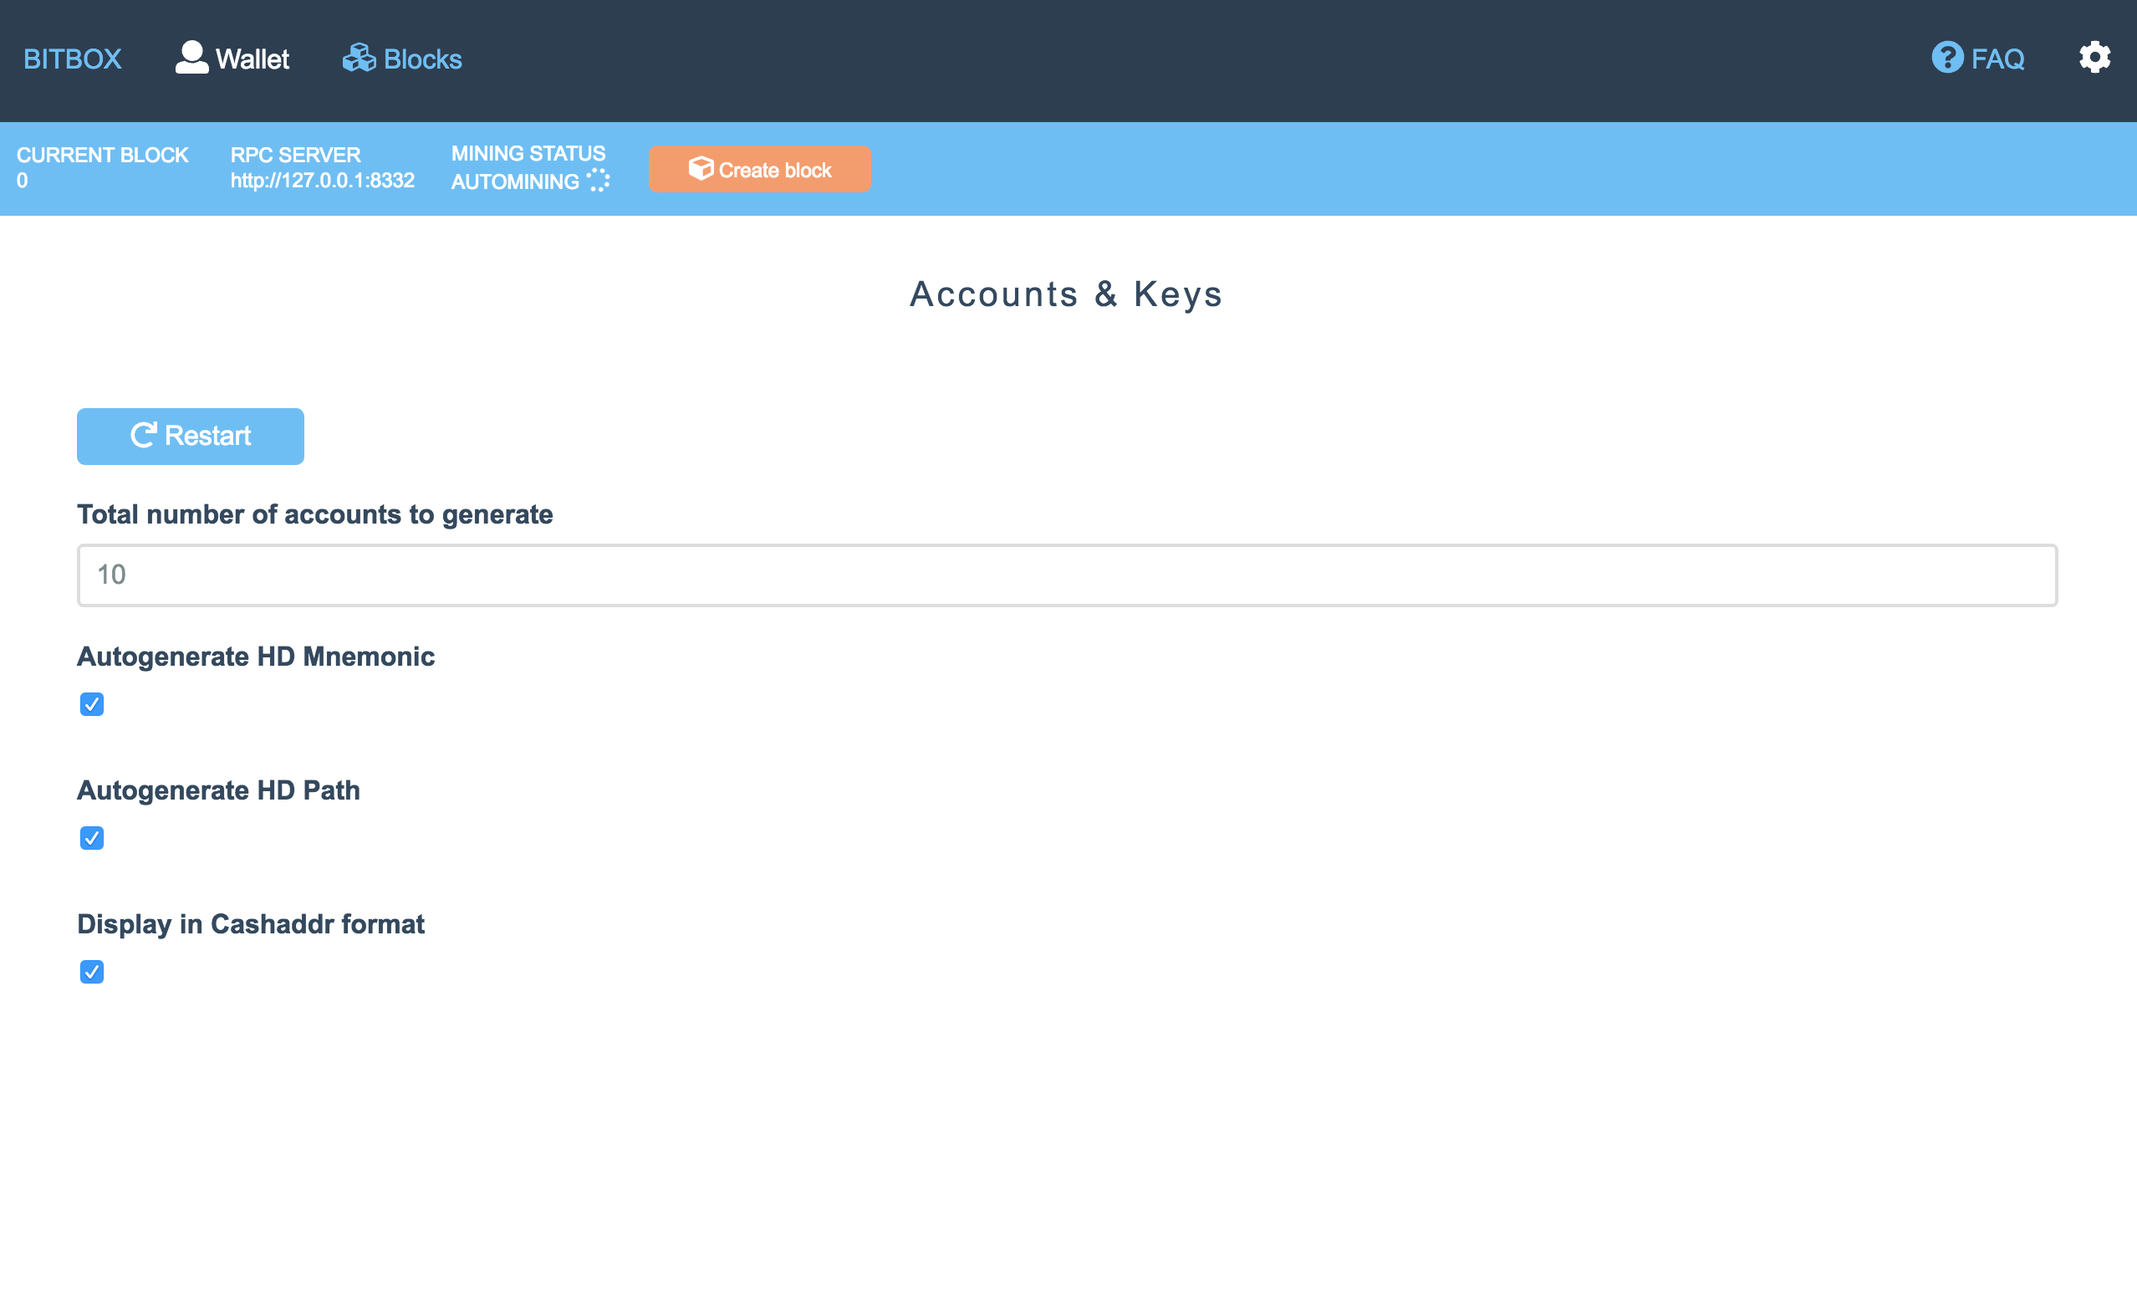
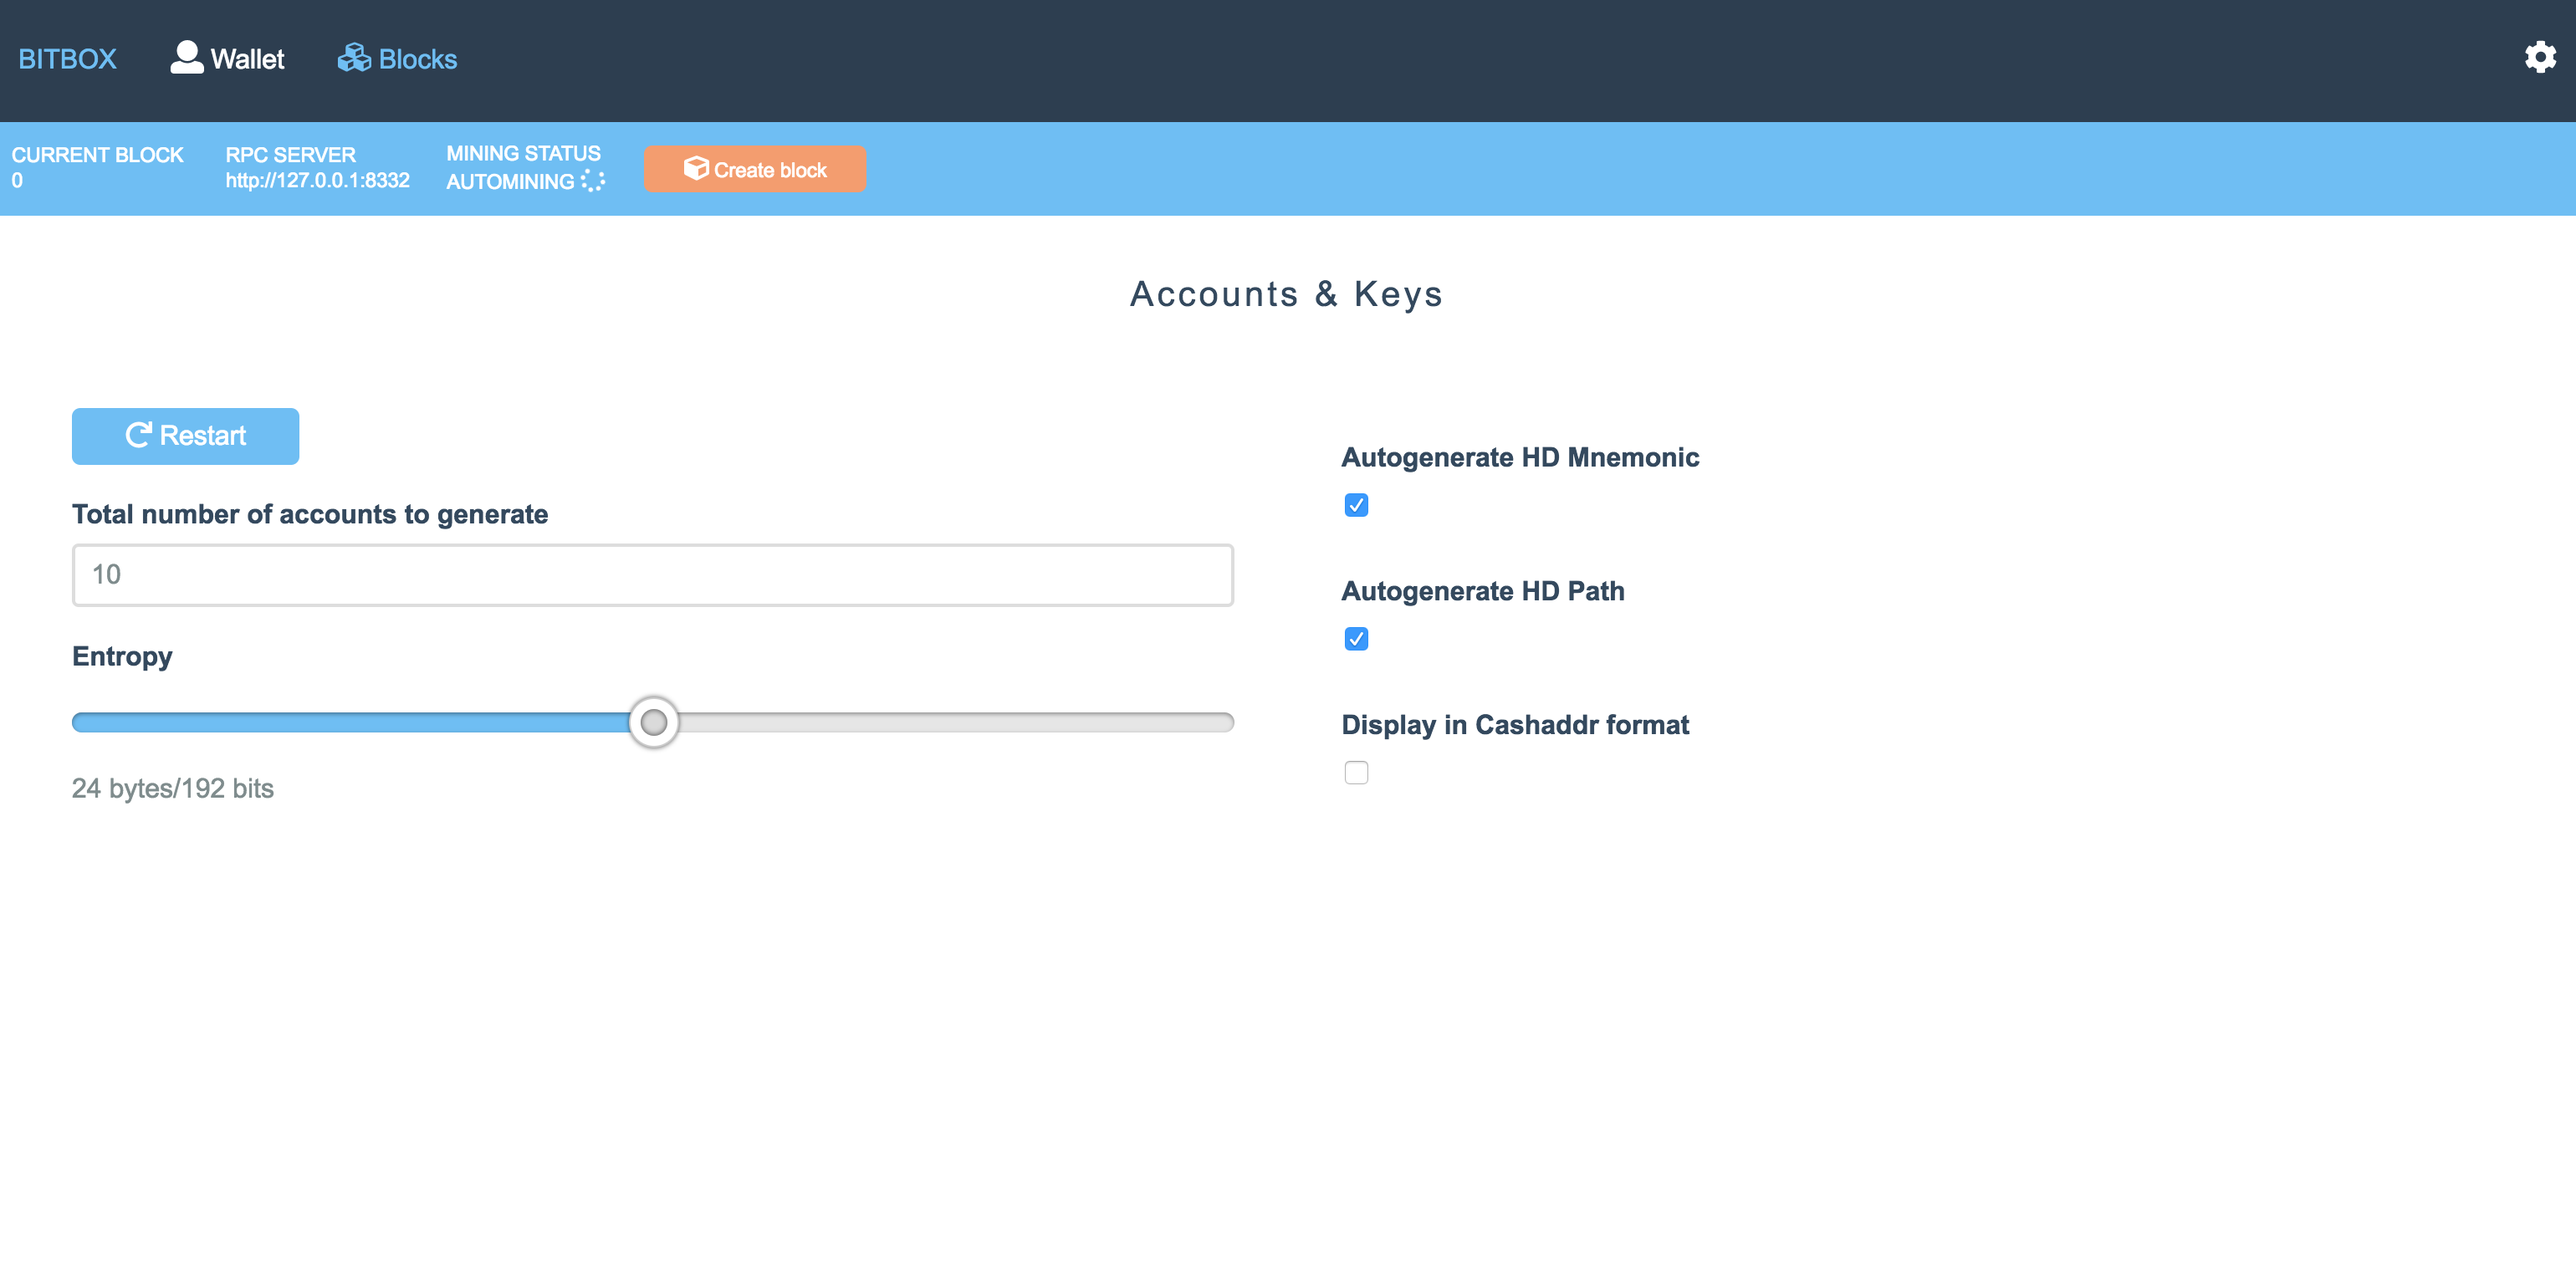
docs.

diff --git a/src/components/Docs.js b/src/components/Docs.js
@@ -18,7 +18,7 @@ class Docs extends Component {
             <p>Each tie you fire up BITBOX it&rsquo;ll generate 10 new BCH addresses from a randomly generated mnemonic and HD derivation path. You can toggle between seeing the public address in cashddr format and the privatekey in Wallet Import Format (WIF).</p>
             <img src='assets/gui-basics-1.png' />
             <h4 id='config'>Configuration</h4>
-            <p>You can restart your BITBOX, change how many addresses are generated, use a custom mnemonic/HD path and toggle cashaddr/base58 on the config screen which is available if you click on the cog icon.</p>
+            <p>You can restart your BITBOX, change how many addresses are generated, increase/decrease the amount of entropy used when generating a mnemonic, use a custom mnemonic/HD path and toggle cashaddr/base58 on the config screen which is available if you click on the cog icon.</p>
             <img src='assets/gui-basics-2.png' />
             <p>Install from npm:</p>
             <SyntaxHighlighter language='text' style={ocean}>{"npm install bitbox-cli --global"}</SyntaxHighlighter>
